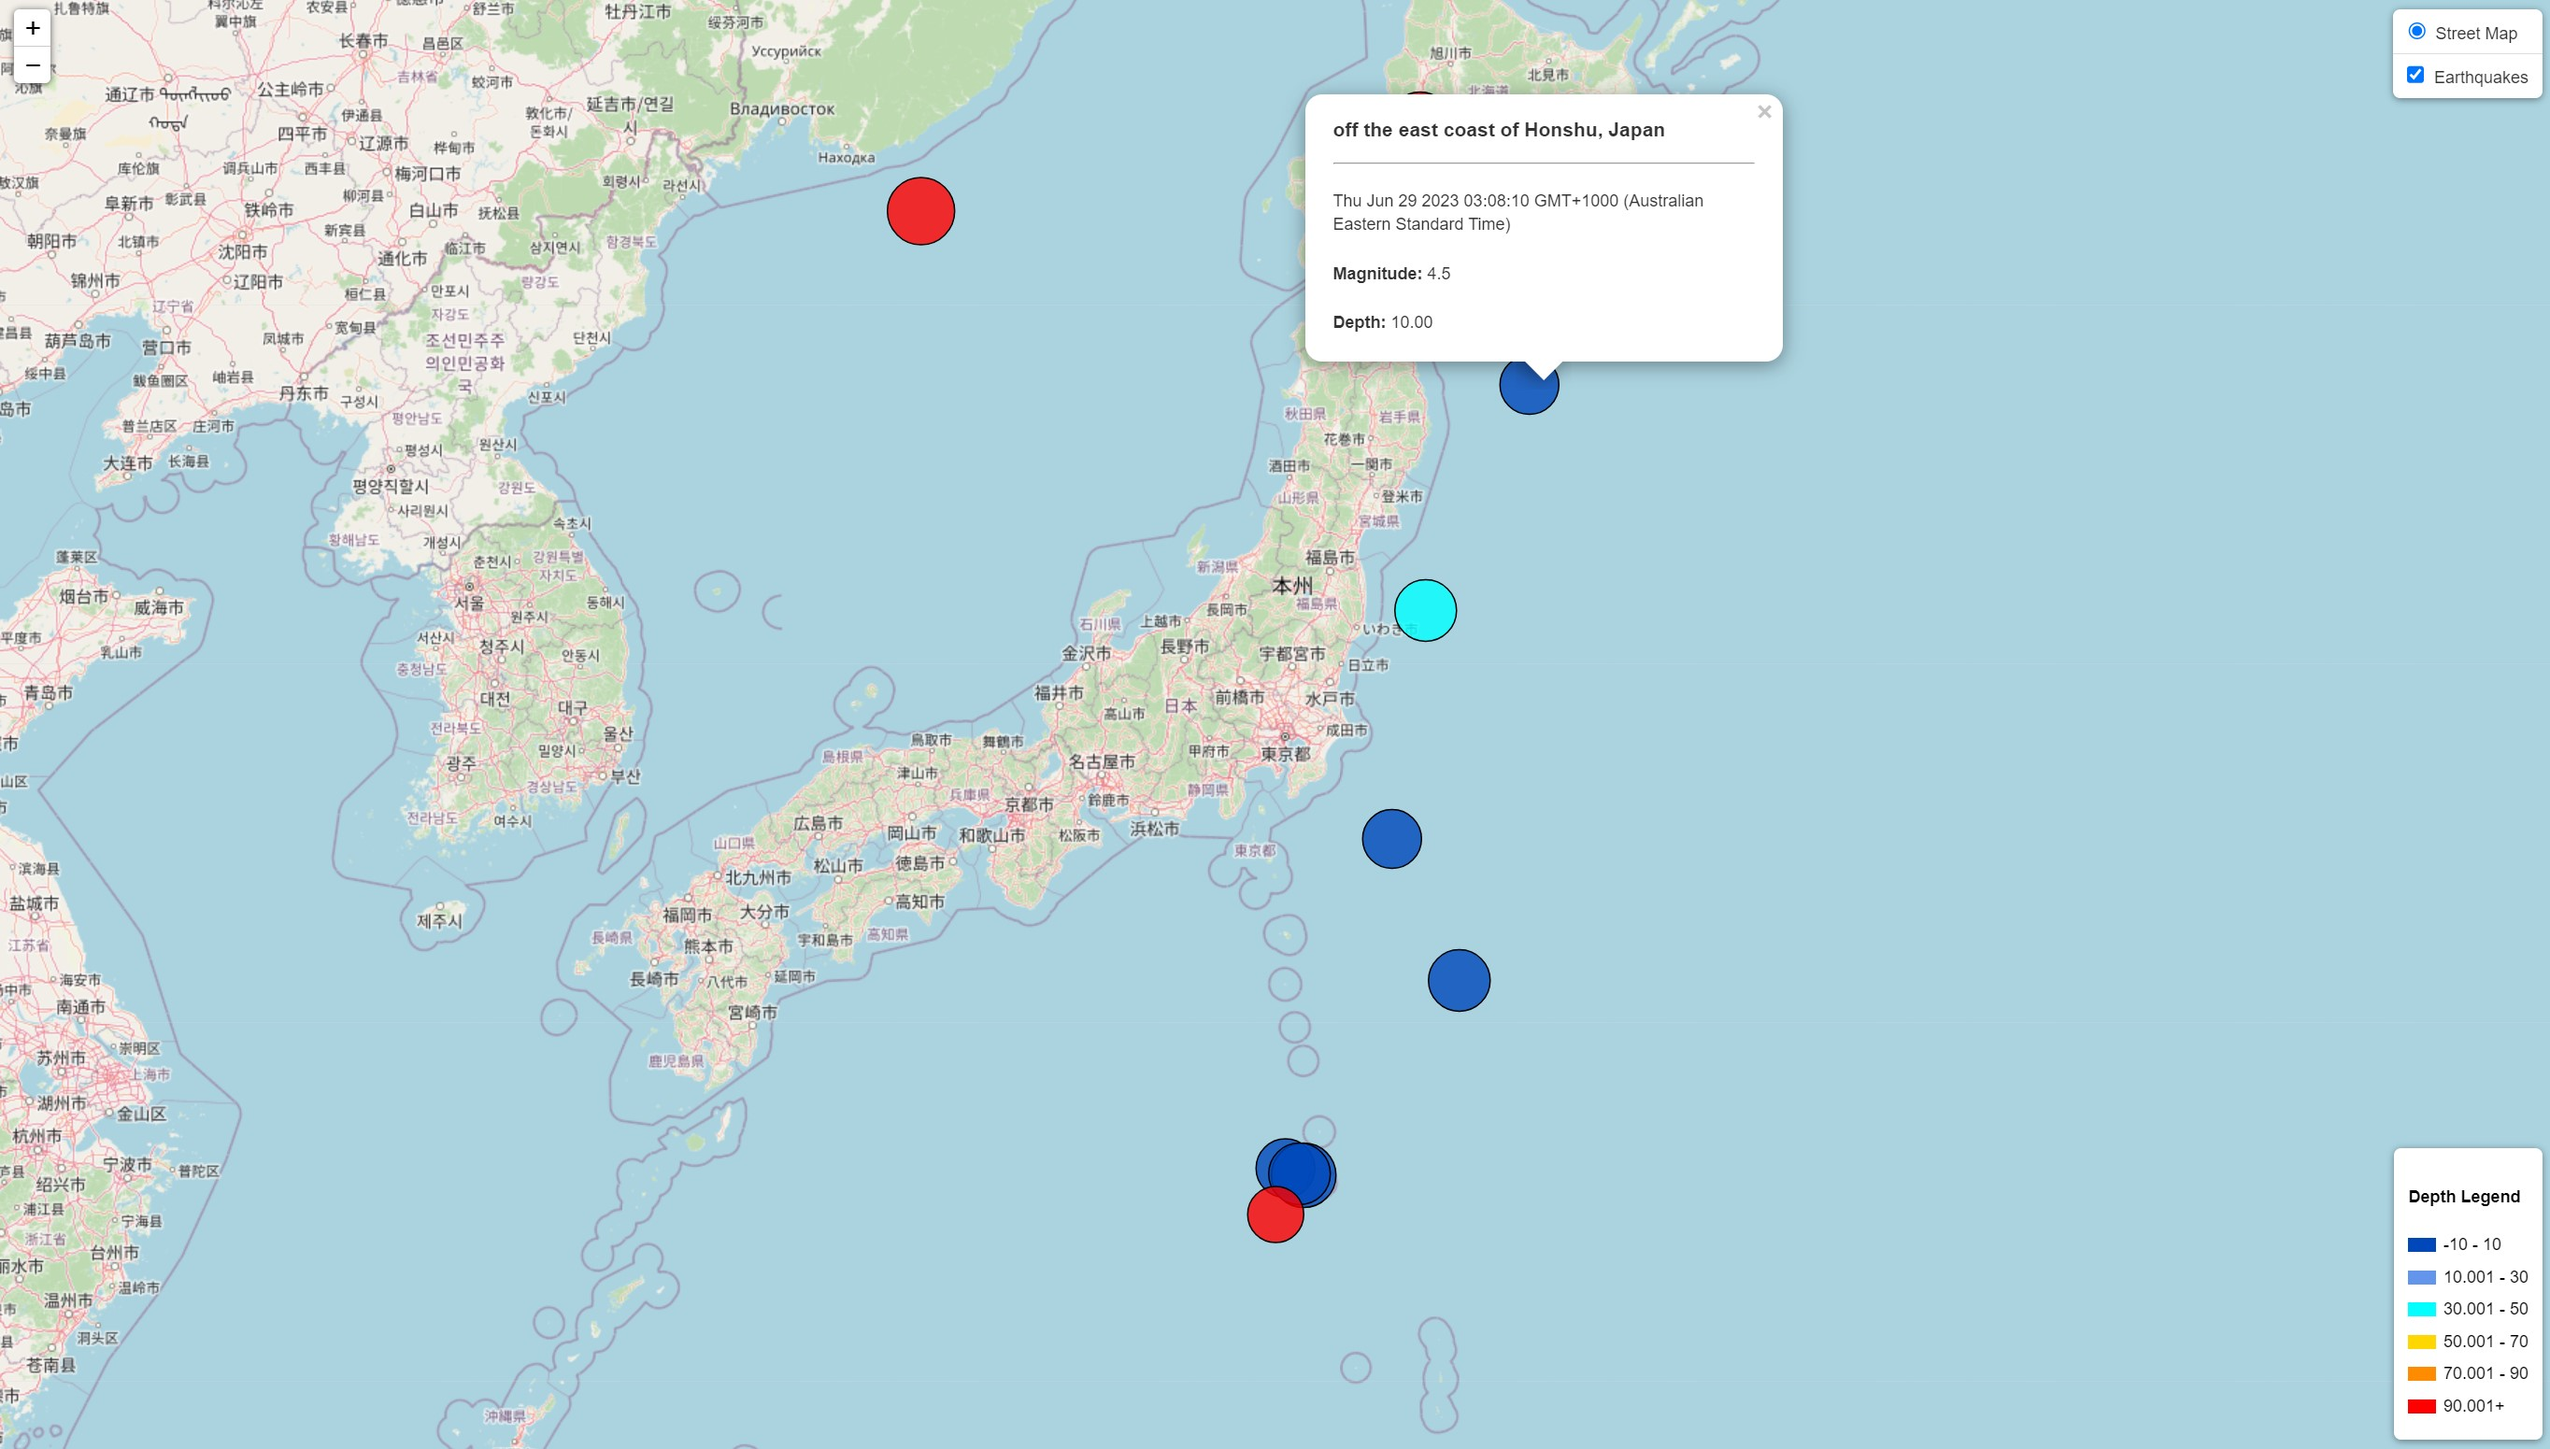
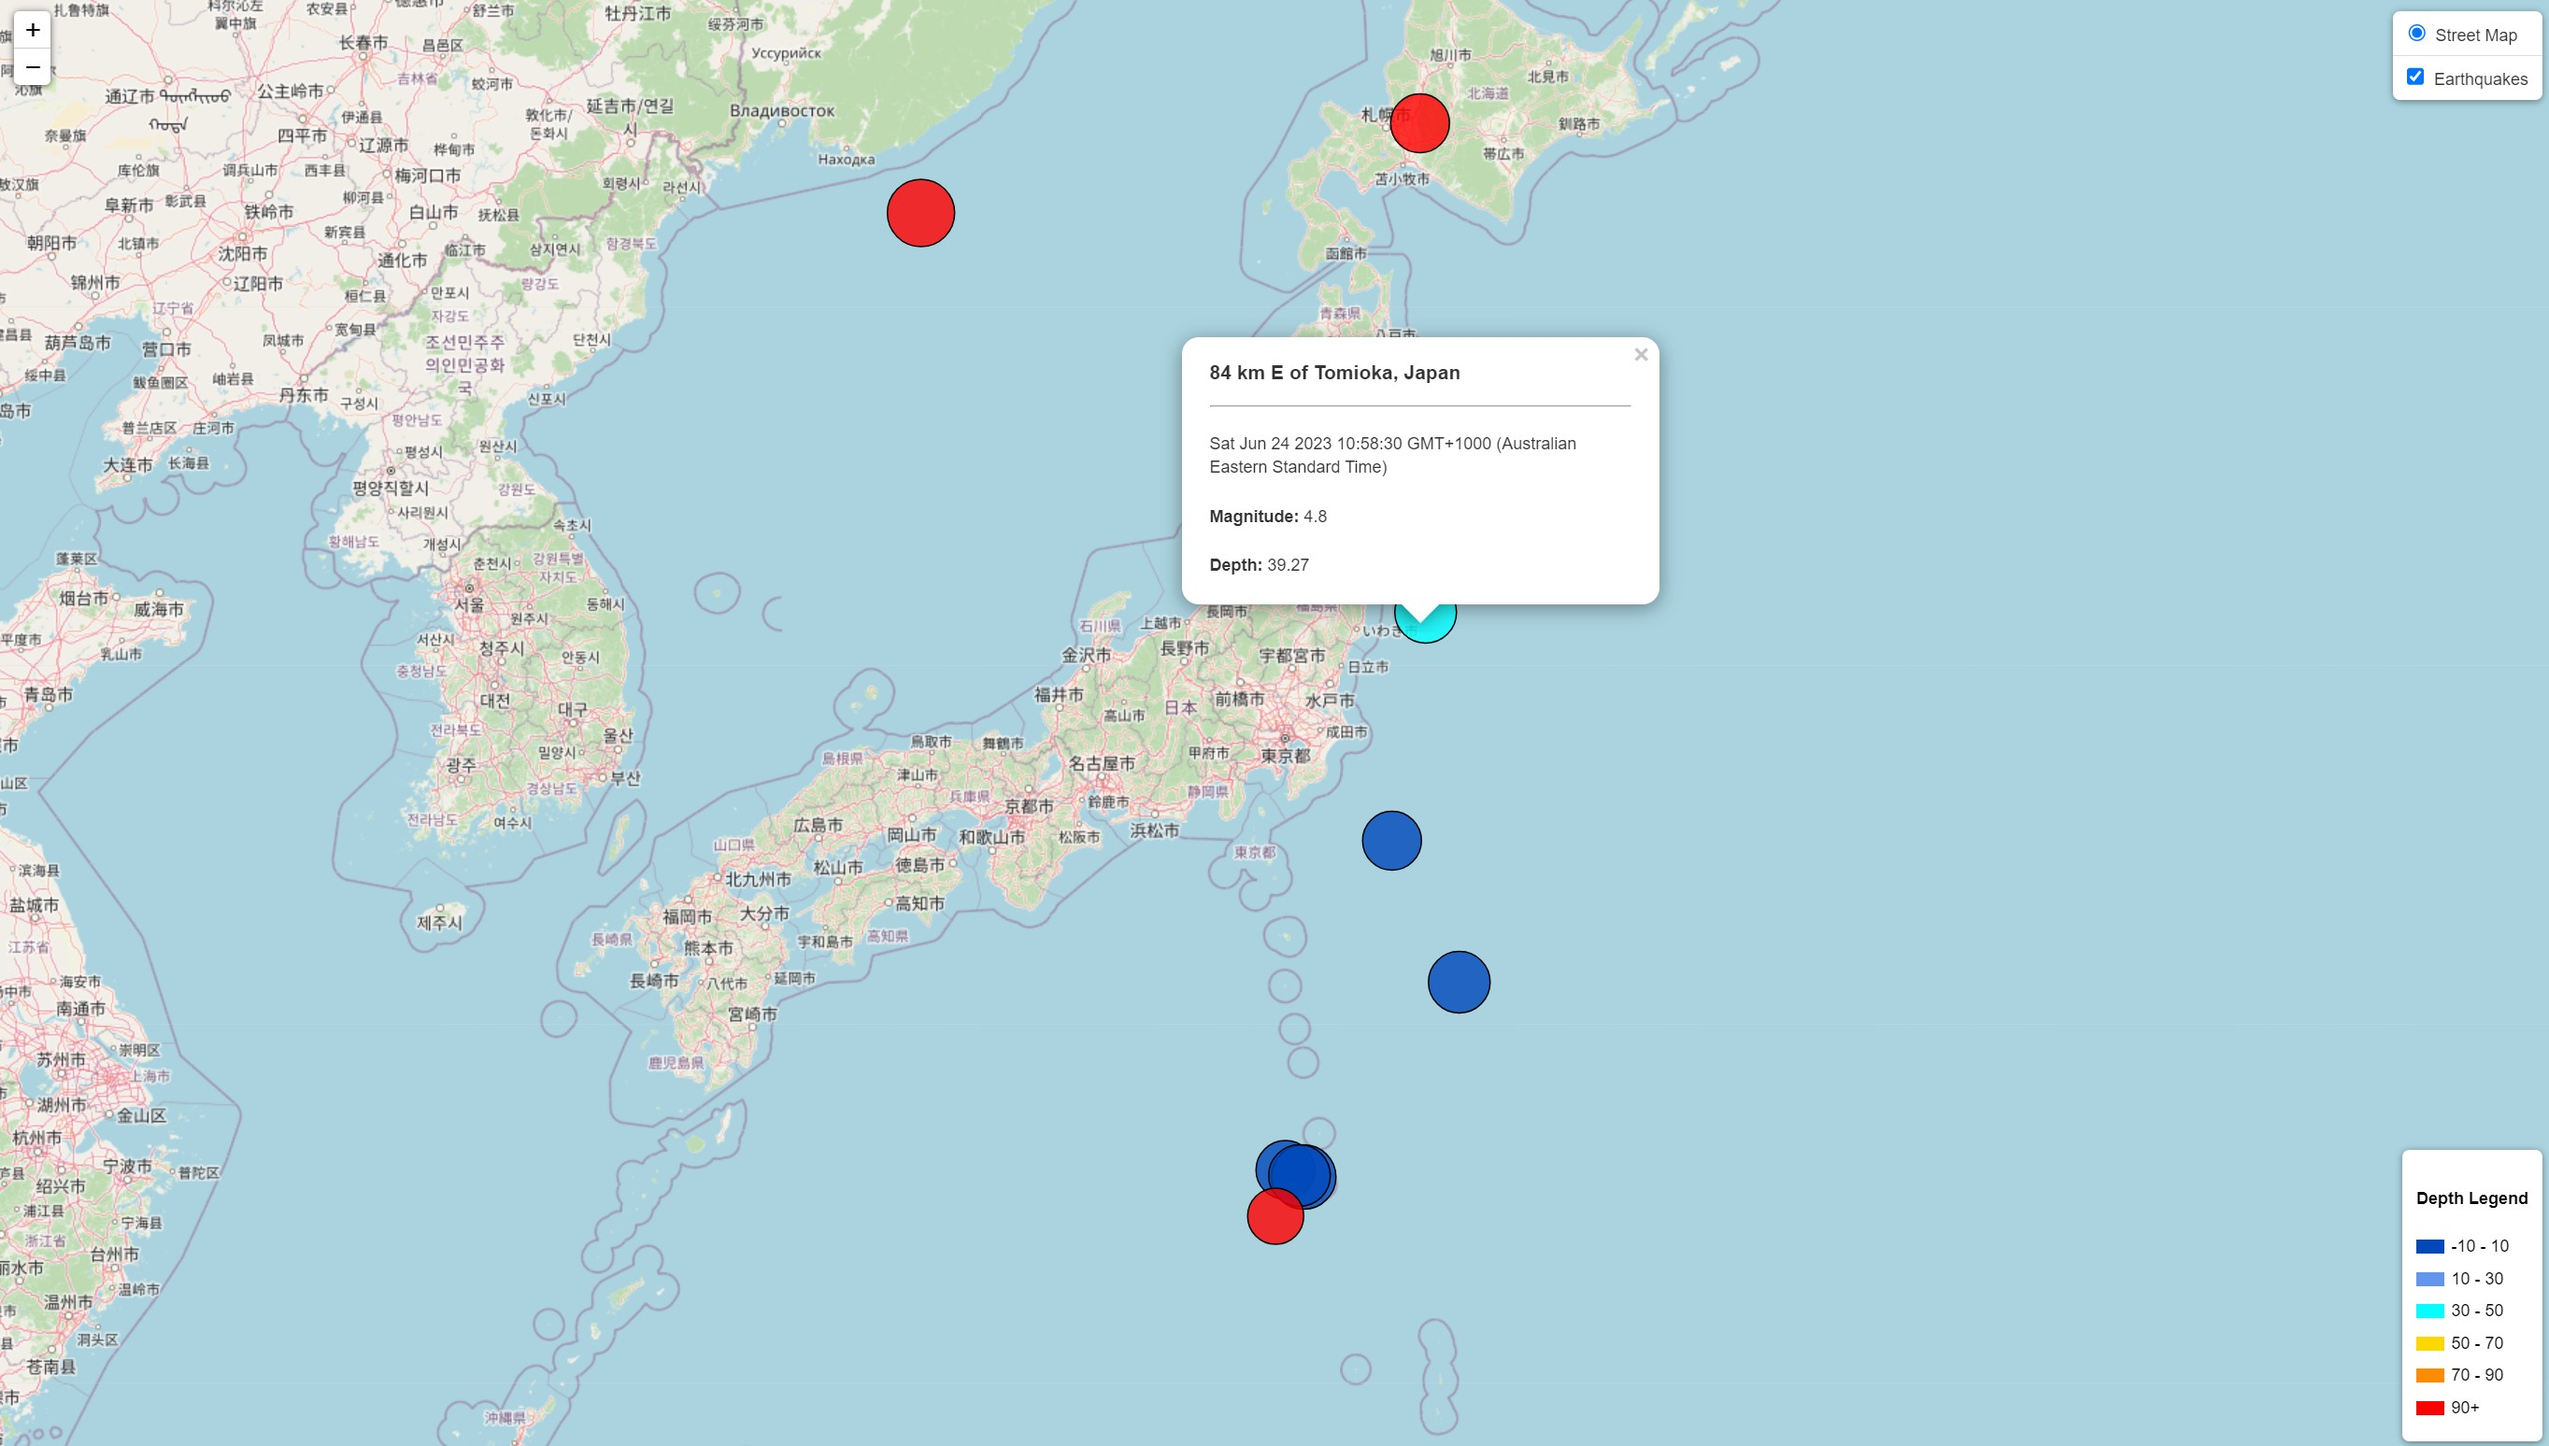
part 1 readme

diff --git a/Leaflet-Part-1/static/js/logic.js b/Leaflet-Part-1/static/js/logic.js
@@ -80,11 +80,11 @@ function createFeatures(earthquakeData) {
     let div = L.DomUtil.create("div", "legend");
     const depthRanges = [
       { min: -10, max: 10, label: "-10 - 10" },
-      { min: 10.001, max: 30, label: "10.001 - 30" },
-      { min: 30.001, max: 50, label: "30.001 - 50" },
-      { min: 50.001, max: 70, label: "50.001 - 70" },
-      { min: 70.001, max: 90, label: "70.001 - 90" },
-      { min: 90.001, max: Infinity, label: "90.001+" }
+      { min: 10.001, max: 30, label: "10 - 30" },
+      { min: 30.001, max: 50, label: "30 - 50" },
+      { min: 50.001, max: 70, label: "50 - 70" },
+      { min: 70.001, max: 90, label: "70 - 90" },
+      { min: 90.001, max: Infinity, label: "90+" }
     ];
 
     // Create the HTML for the legend

diff --git a/README.md b/README.md
@@ -35,6 +35,8 @@ Part 2 of this repository will include a map layer illustrating the techtonic pl
 ### Leaflet Part 1
 - From directory Leaflet-Part-1 load index.html
 - Associated logic.js shows earthquake markers with the marker size scaled to the magnitude level while marker color is varying to depth level.  
+- From the image "Part 1" we can see that in the last 7 days there have been 3 earthquakes with a depth of 90+, 2 in the north region and one in the south.  
+- The earthquake closest to the centre of Japan was on 24th of June with a magnitude of 4.8 and Depth of 39.27.  
 
     
 ### Leaflet Part 2
